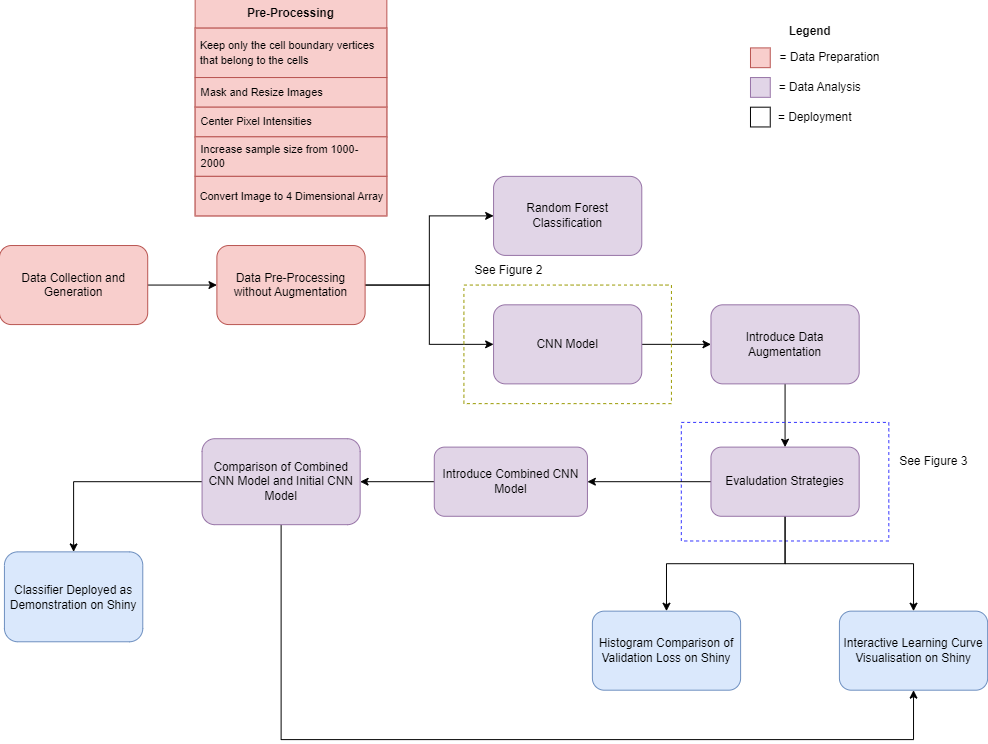
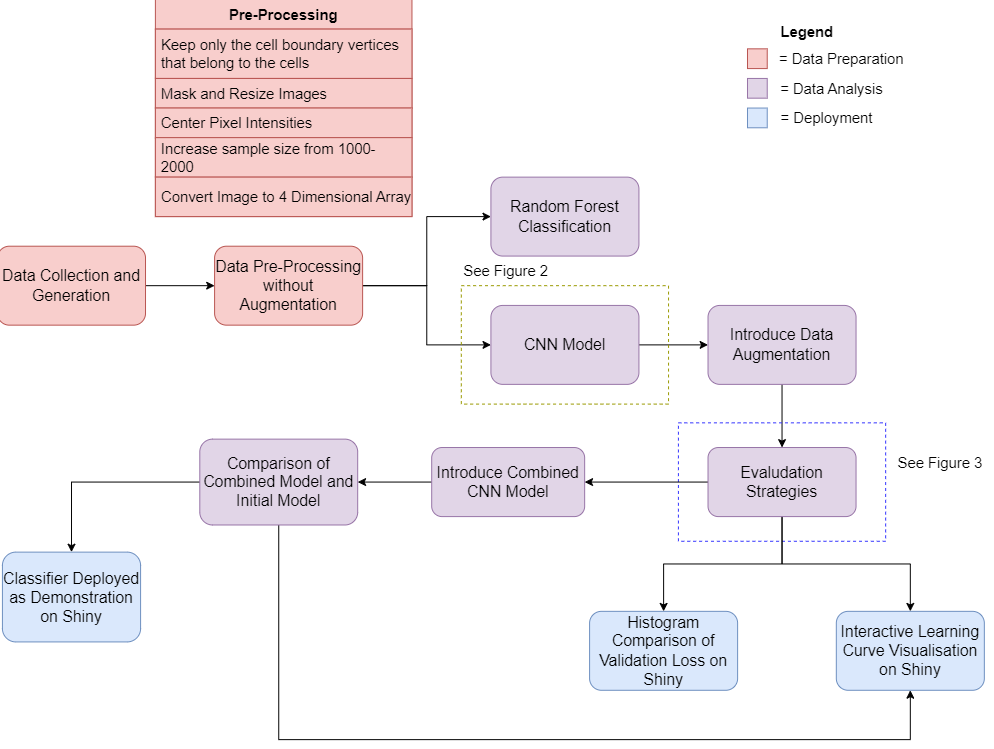
Changed the diagrams, now easier to read

diff --git a/Presentation.html b/Presentation.html
@@ -43,12 +43,6 @@ class: center, middle, inverse, title-slide
 
 ## PROJECT CONTEXT 
 
-**Motivation:** Developing a robust computer vision tool, since cell images can be affected by various factors leading to errors in image analysis &amp; classification (Rączkowski et al., 2019). 
-
-
-**Robustness:** refers to the ability of an image analysis model to maintain reliable results even in the presence of variations in the input images (Drenkow et al., n.d.). 
-
-
 **Project Questions:**
 - Q1: Investigating how the model's performance &amp; robustness vary with different types &amp; levels of noise levels, image resolution, &amp; image artifacts. 
 
@@ -68,7 +62,7 @@ Image: Frozen Mouse Brain (Mouse Brain Dataset Explorer, n.d.)
 ---
 Figure 1: Workflow Diagram
 
-&lt;img src="images/Workflow.png" width="550px" height="550px" style="display: block; margin: auto;" /&gt;
+&lt;img src="images/Workflow.png" width="600px" height="550px" style="display: block; margin: auto;" /&gt;
 
 
 
@@ -112,32 +106,39 @@ class: segue-red
 
 
 ---
-
-## Choice of Data Augmentations
-
-Data augmentation is a technique used to help reduce over-fitting (Shorten &amp; Khoshgoftaar, 2019). 
-
-- **Noise** in data augmentation enlarges the training dataset by introducing random variations to input variables (Maulana, n.d.). This process improves model generalization, loss function and overfitting (Bishop, 1995; Maulana, n.d.) (Shanqing; Pednekar &amp; Slater, 2019).
-
-
-- **Image Resolution** is vital in deep learning applications like radiology. High resolution offers more information, but lower resolutions can sometimes enhance model performance by reducing overfitting risks (Sabottke &amp; Spieler, 2020).
-
-- **Image rotation**, a key data augmentation strategy, enhances machine learning models' performance by diversifying cell observations (Mikołajczyk &amp; Grochowski, 2018). 
-
-
----
 Figure 3: Evaluation Strategy 
 
 
-&lt;img src="images/Results_Process.png" width="550px" height="550px" style="display: block; margin: auto;" /&gt;
+&lt;img src="images/Results_Process.png" width="600px" height="550px" style="display: block; margin: auto;" /&gt;
 
 ---
 
-## RESULTS
+## RESULTS Q1
 
-As a team we developed this shared interactive tool to assess how the model’s performance and robustness vary with different types of data augmentation factors. 
+&lt;img src="images/Noise_Results.jpg" width="2731" style="display: block; margin: auto;" /&gt;
 
-Shiny App link...
+
+
+---
+## RESULTS Q1
+
+&lt;img src="images/Resolution_Results.jpg" width="2731" style="display: block; margin: auto;" /&gt;
+
+
+
+---
+
+## RESULTS Q1
+
+&lt;img src="images/Rotation_Results.jpg" width="2731" style="display: block; margin: auto;" /&gt;
+
+
+---
+
+## RESULTS Q2
+
+screen-record of 'visualisation' section in shiny app
+
 
 ---
 class: segue-red
@@ -156,6 +157,8 @@ class: segue-red
 ---
 ## CONCLUSION
 
+- screen-record of the 'Demonstration' app part
+
 
 ---
 
@@ -167,6 +170,10 @@ class: segue-red
 
 
 ## FUTURE STUDY 
+
+- **Improving Model:** Run the model multiple times to get the average validation accuracy = more reliable 
+
+- **Medial Analysis:** Validated our model on three different medial case studies: skin melanomas diagnosis, histopathological images, &amp; breast magnetic resonance imaging (MRI) scans analysis, utilising the image classification in order to produce a diagnose (Mikołajczyk &amp; Grochowski, 2018). 
 
 
 
